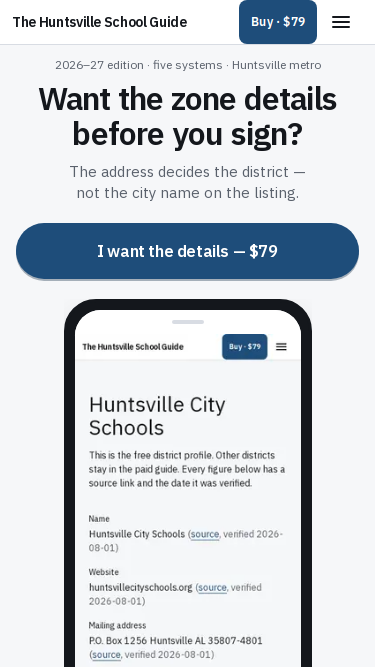
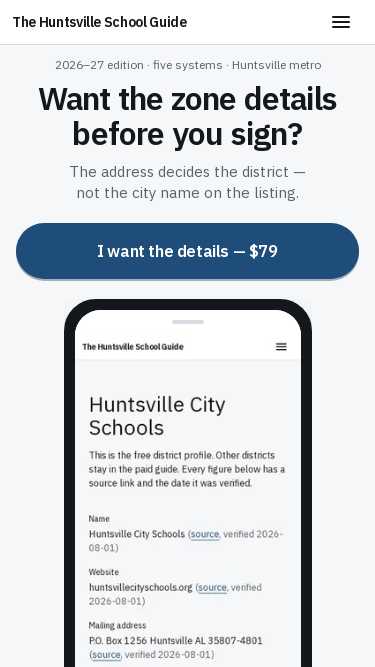
SG amend: remove header Buy; keep hero CTA only (#40)
Remove HeaderBuyButton from site header on all breakpoints. Mobile keeps
name + hamburger; md+ keeps nav links without a header purchase CTA.
Update sales-honesty guards and refresh rev6 first-screen proof PNGs.

Changed region(s): [[0.616, 0.0, 0.8507, 0.09], [0.5867, 0.4798, 0.7333, 0.5397]]

diff --git a/lib/sales-honesty.test.ts b/lib/sales-honesty.test.ts
@@ -21,10 +21,6 @@ const headerSource = readFileSync(
   new URL("../components/site-header.tsx", import.meta.url),
   "utf8",
 );
-const headerBuyButtonSource = readFileSync(
-  new URL("../components/header-buy-button.tsx", import.meta.url),
-  "utf8",
-);
 const guideIndexSource = readFileSync(
   new URL("../app/guide/page.tsx", import.meta.url),
   "utf8",
@@ -232,21 +228,16 @@ describe("first-screen buy", () => {
 });
 
 describe("mobile header tap targets", () => {
-  it("keeps header buy short at every breakpoint (never hero commitment CTA)", () => {
-    assert.equal(headerBuyButtonSource.includes("I want the details"), false);
-    assert.equal(headerBuyButtonSource.includes("hero.cta"), false);
-    assert.match(headerBuyButtonSource, /label="Buy · \$79"/);
-    assert.equal(
-      headerBuyButtonSource.includes("compactLabel"),
-      false,
-      "header must not use compactLabel swap that shows long CTA on sm+",
-    );
+  it("does not render a header buy CTA at any breakpoint", () => {
+    assert.equal(headerSource.includes("HeaderBuyButton"), false);
+    assert.equal(headerSource.includes("header-buy-button"), false);
+    assert.equal(headerSource.includes("Buy · $79"), false);
+    assert.equal(headerSource.includes("CheckoutForm"), false);
   });
 
-  it("keeps one combined sticky bar with buy CTA", () => {
+  it("keeps one combined sticky header bar with hamburger (no header buy)", () => {
     assert.match(headerSource, /sticky top-0/);
     assert.equal(headerSource.includes("flex-col"), false);
-    assert.match(headerSource, /HeaderBuyButton/);
     assert.match(headerSource, /truncate/);
     assert.match(headerSource, /SiteHeaderMobileMenu/);
     assert.match(headerSource, /md:hidden/);

diff --git a/components/site-header.tsx b/components/site-header.tsx
@@ -1,5 +1,4 @@
 import Link from "next/link";
-import { HeaderBuyButton } from "@/components/header-buy-button";
 import {
   SiteHeaderMobileMenu,
   type SiteHeaderNavLink,
@@ -56,7 +55,6 @@ export function SiteHeader() {
           ))}
         </nav>
         <div className="flex shrink-0 items-center gap-0.5 sm:gap-1">
-          <HeaderBuyButton />
           <SiteHeaderMobileMenu
             links={mobileMenuLinks}
             className="md:hidden"
